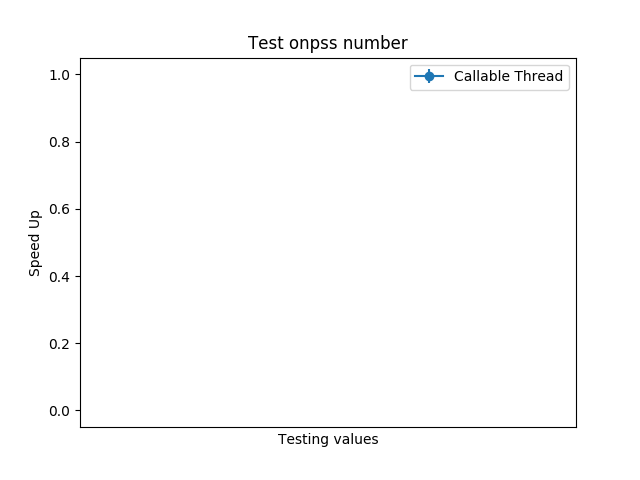
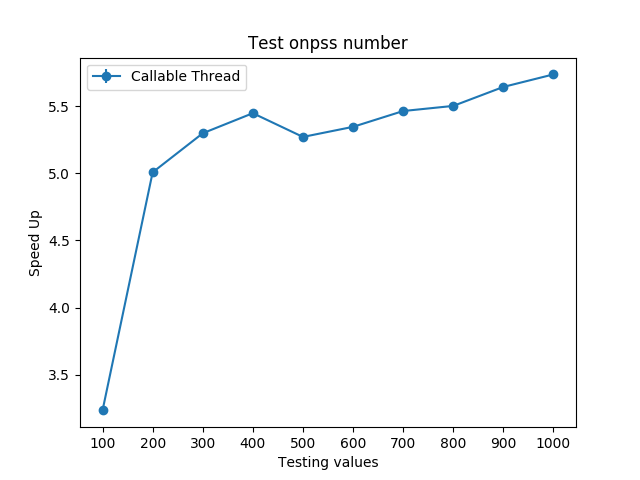
updates

diff --git a/plotting.py b/plotting.py
@@ -1,4 +1,5 @@
 import os
+import re
 import sys
 import glob
 import pandas as pd
@@ -6,6 +7,18 @@ import pandas as pd
 import matplotlib.pyplot as plt 
 import numpy as np 
 import csv 
+
+def atoi(text):
+    return int(text) if text.isdigit() else text
+
+def natural_keys(text):
+    '''
+    alist.sort(key=natural_keys) sorts in human order
+    http://nedbatchelder.com/blog/200712/human_sorting.html
+    (See Toothy's implementation in the comments)
+    '''
+    return [ atoi(c) for c in re.split(r'(\d+)', text) ]
+
 
 def multy_plot(means, means1, means2, dims):
     # print(len(means[0]))
@@ -31,7 +44,7 @@ def plot(means, dims, testType, save_path, method):
     plt.errorbar(x, means, yerr=0, fmt='-o', label= method + ' Thread')
     plt.xticks(x,dims)
     plt.legend(loc='best')
-    plt.title('Test on' + testType + ' number')
+    plt.title('Test on ' + testType + ' number')
     plt.ylabel('Speed Up')
     plt.xlabel('Testing values')
     plt.savefig(save_path + '/graph.png')
@@ -39,20 +52,21 @@ def plot(means, dims, testType, save_path, method):
 
 def read_multiple_csv(plotting_data):
 
-        mean = []
-        std = []
-        axes = []
+    mean = []
+    std = []
+    axes = []
 
-        files = glob.glob(plotting_data + "/*.csv")
+    files = os.listdir(plotting_data + "/")  
+    files.sort(key=lambda x: int(''.join(filter(str.isdigit, x))))  
 
-        
-        for filename in files:
-            data_df = pd.read_csv(plotting_data + '/'+ filename, error_bad_lines=False, names=["mean", "std", "queries"])
-            mean.append(data_df["mean"].values[0])
-            std.append(data_df["std"].values[0])
-            axes.append(data_df["queries"].values[0])
 
-        return mean, std, axes
+    for filename in files:
+        data_df = pd.read_csv(plotting_data + "/" + filename, error_bad_lines=False, names=["mean", "std", "queries"])
+        mean.append(data_df["mean"].values[0])
+        std.append(data_df["std"].values[0])
+        axes.append(data_df["queries"].values[0])
+
+    return mean, std, axes
 
 def read_csv(plotting_data):
 
@@ -62,10 +76,12 @@ def read_csv(plotting_data):
 
     data_df = pd.read_csv(plotting_data, error_bad_lines=False, names=["mean", "std", "queries"])
 
-    for i in range(data_df["mean"].values):
+    for i in range(len(data_df["mean"].values)):
         mean.append(data_df["mean"].values[i])
         std.append(data_df["std"].values[i])
         axes.append(data_df["queries"].values[i])
+
+    return mean, std, axes
 
 
 if __name__ == "__main__":
@@ -74,11 +90,6 @@ if __name__ == "__main__":
     testType = sys.argv[2]
     save_path = sys.argv[3]
     method = sys.argv[4]
-
-    print(plotting_data)
-    print(testType)
-    print(save_path)
-    print(method)
 
     mean = []
     std = []

diff --git a/src/Decryptor/DictDecrypting.java b/src/Decryptor/DictDecrypting.java
@@ -89,7 +89,6 @@ public class DictDecrypting {
         //                                          Save Result in CSV                                                \\
         // ********************************************************************************************************** \\
 
-
         String [] name = args[1].split("/");
         String path = System.getProperty("user.dir") + "/DictResults/" + args[4] + "_" + name[1].replace(".txt", "") + "_" + args[5];
 
@@ -103,10 +102,12 @@ public class DictDecrypting {
         }
 
         int value = Integer.parseInt(args[0]);
-        if (args[5] == "pss"){
+        if (args[5].equals("pss")){
             value = Integer.parseInt(args[3]);
         }
-        
+
+        System.out.println(value);
+
         writeCSV(firstOrderStatistics(speedup), path + "/" + args[4] + "Speedup_" + args[3], value);
 
 
